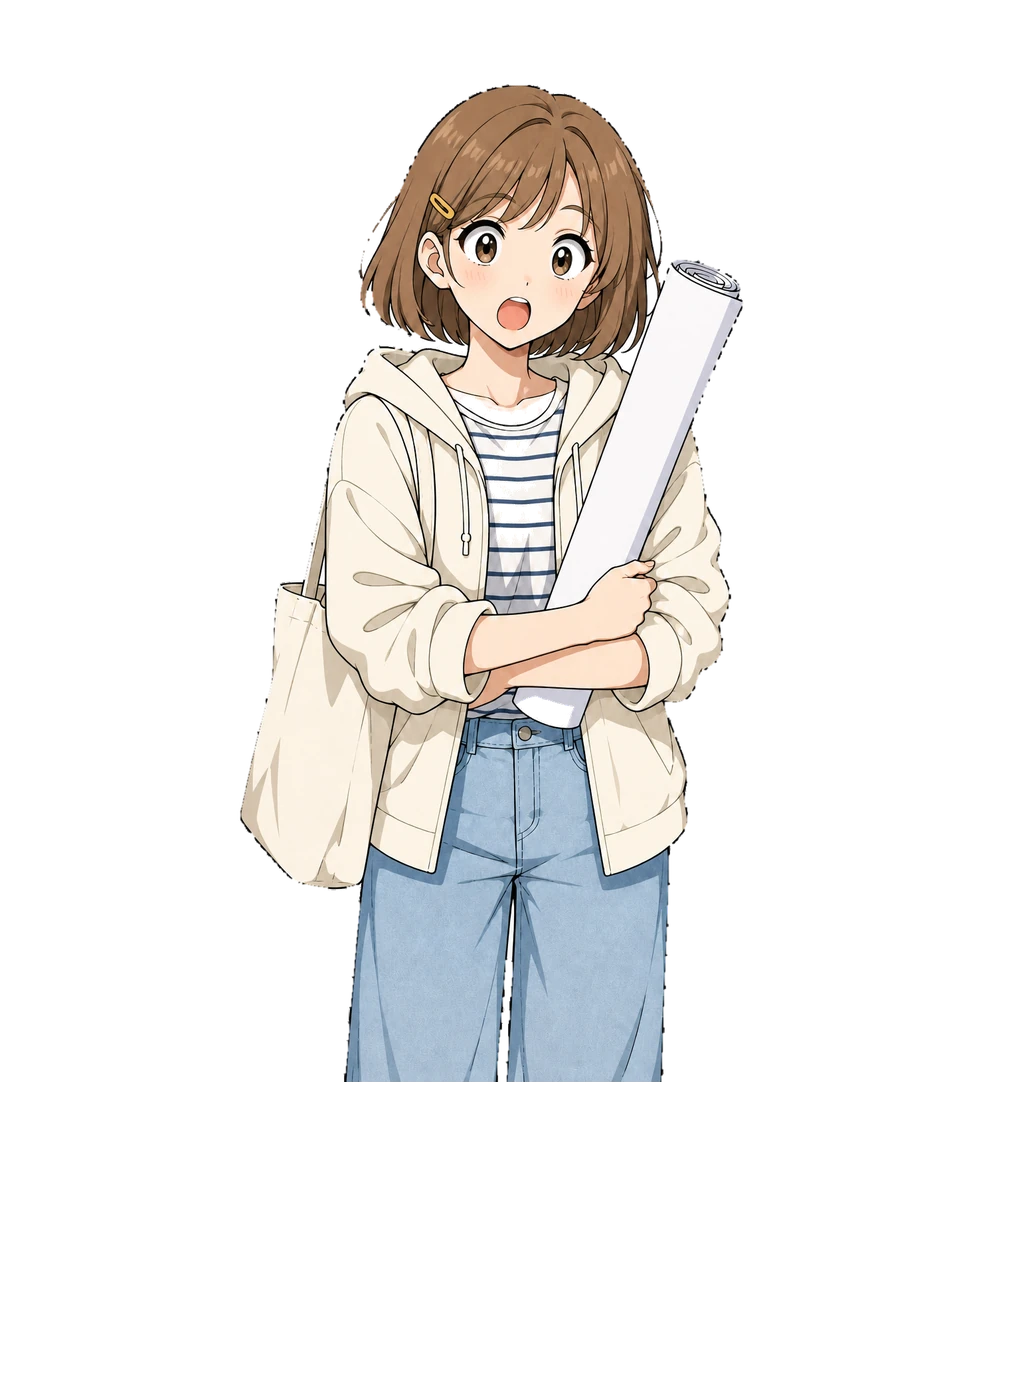
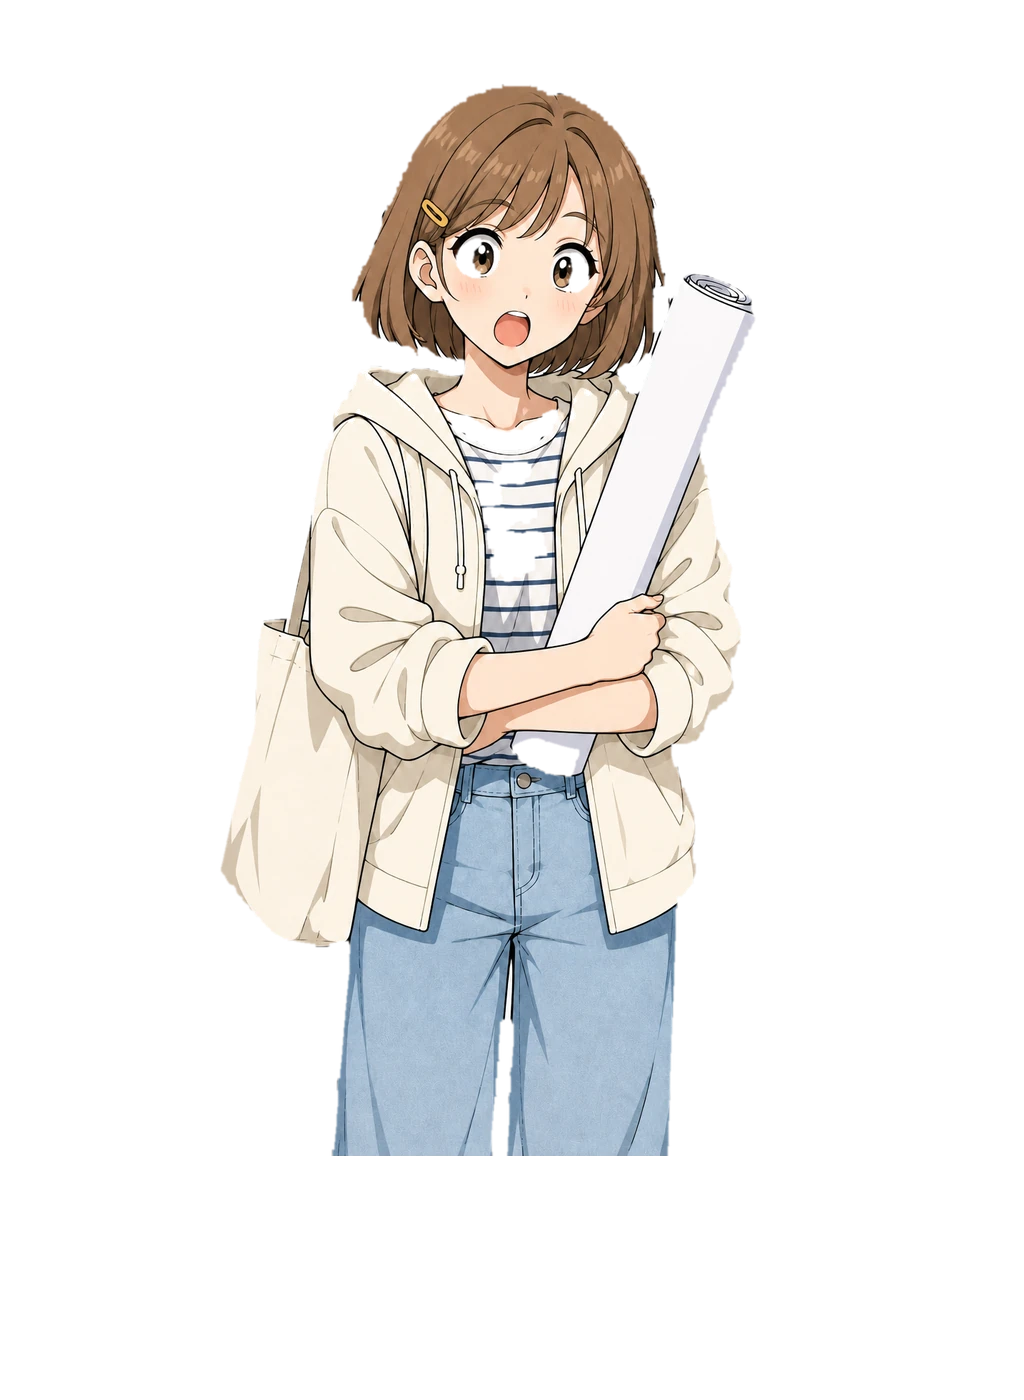
캐릭터 누끼 테두리·틈 정리, 자산 캐시 갱신

Changed region(s): [[0.2188, 0.0614, 0.75, 0.8293]]

diff --git a/js/engine.js b/js/engine.js
@@ -14,23 +14,23 @@
 
   var ASSETS = {
     bg: {
-      campus_day: 'assets/img/campus_day.webp?v=4',
-      library: 'assets/img/library.webp?v=4',
-      clubroom: 'assets/img/clubroom.webp?v=4',
-      campus_night: 'assets/img/campus_night.webp?v=4'
+      campus_day: 'assets/img/campus_day.webp?v=5',
+      library: 'assets/img/library.webp?v=5',
+      clubroom: 'assets/img/clubroom.webp?v=5',
+      campus_night: 'assets/img/campus_night.webp?v=5'
     },
     char: {
       seoyun: {
-        base: 'assets/img/seoyun_base.webp?v=4',
-        blush: 'assets/img/seoyun_blush.webp?v=4',
-        surprised: 'assets/img/seoyun_surprised.webp?v=4',
-        serious: 'assets/img/seoyun_serious.webp?v=4'
+        base: 'assets/img/seoyun_base.webp?v=5',
+        blush: 'assets/img/seoyun_blush.webp?v=5',
+        surprised: 'assets/img/seoyun_surprised.webp?v=5',
+        serious: 'assets/img/seoyun_serious.webp?v=5'
       },
       chaewon: {
-        base: 'assets/img/chaewon_base.webp?v=4',
-        blush: 'assets/img/chaewon_blush.webp?v=4',
-        surprised: 'assets/img/chaewon_surprised.webp?v=4',
-        serious: 'assets/img/chaewon_serious.webp?v=4'
+        base: 'assets/img/chaewon_base.webp?v=5',
+        blush: 'assets/img/chaewon_blush.webp?v=5',
+        surprised: 'assets/img/chaewon_surprised.webp?v=5',
+        serious: 'assets/img/chaewon_serious.webp?v=5'
       }
     }
   };

diff --git a/css/style.css b/css/style.css
@@ -484,7 +484,7 @@ body:not(.is-title) #dialogue { opacity: 1; transform: none; }
 .title-bg {
   position: absolute;
   inset: 0;
-  background: url('../assets/img/campus_day.webp?v=4') center 46% / cover no-repeat;
+  background: url('../assets/img/campus_day.webp?v=5') center 46% / cover no-repeat;
   filter: saturate(0.98) brightness(0.94);
   transform: scale(1.06);
   animation: drift 28s ease-in-out infinite alternate;
@@ -612,7 +612,7 @@ body:not(.is-title) #dialogue { opacity: 1; transform: none; }
 body:not(.loading) .loader { opacity: 0; transition: opacity 0.6s; }
 
 .credit {
-  margin: 20px 0 0;
+  margin: 26px 0 0;
   font-size: 9px;
   letter-spacing: 0.3em;
   color: rgba(255, 248, 234, 0.32);

diff --git a/index.html b/index.html
@@ -17,7 +17,7 @@
 <link rel="preconnect" href="https://fonts.googleapis.com">
 <link rel="preconnect" href="https://fonts.gstatic.com" crossorigin>
 <link rel="stylesheet" href="https://fonts.googleapis.com/css2?family=Gowun+Batang:wght@400;700&display=swap">
-<link rel="stylesheet" href="css/style.css?v=5">
+<link rel="stylesheet" href="css/style.css?v=6">
 </head>
 <body class="loading is-title">
 
@@ -113,6 +113,6 @@
 </div>
 
 <script src="js/audio.js?v=2"></script>
-<script src="js/engine.js?v=4"></script>
+<script src="js/engine.js?v=5"></script>
 </body>
 </html>

diff --git a/tools/build_assets.py b/tools/build_assets.py
@@ -82,6 +82,69 @@ def alpha_of(path):
     pale = (rgb.max(axis=2) >= 246) & ((rgb.max(axis=2) - rgb.min(axis=2)) <= 8)
     alpha[near_out & pale] = 0
 
+    # 실루엣 가장자리에 남은 흰색을 안쪽 색으로 바꾼다 (흰 테 제거)
+    core = (alpha > 200) & (rgb.max(axis=2) < 236)
+    if core.any():
+        ind = ndimage.distance_transform_edt(~core, return_distances=False, return_indices=True)
+        nearest = rgb[ind[0], ind[1]]
+        outside2 = alpha < 16
+        near2 = ndimage.binary_dilation(outside2, iterations=6)
+        pale2 = (rgb.max(axis=2) >= 232) & ((rgb.max(axis=2) - rgb.min(axis=2)) <= 20)
+        fix = near2 & pale2 & (alpha > 0)
+        rgb[fix] = nearest[fix]
+
+    # 머리카락 사이로 남은 얇은 흰 틈을 주변 색으로 메운다 (넓은 흰 소품은 그대로)
+    pale3 = (rgb.max(axis=2) >= 235) & ((rgb.max(axis=2) - rgb.min(axis=2)) <= 26) & (alpha > 30)
+    thick = ndimage.binary_opening(pale3, structure=np.ones((5, 5)))
+    core3 = (alpha > 200) & ~pale3
+    if core3.any():
+        ind3 = ndimage.distance_transform_edt(~core3, return_distances=False, return_indices=True)
+        near3 = rgb[ind3[0], ind3[1]]
+        fill3 = pale3 & ~thick
+        rgb[fill3] = near3[fill3]
+
+    # 흰 배경이 반투명하게 남은 테두리는 지운다
+    pale_hard = (rgb.max(axis=2) >= 232) & ((rgb.max(axis=2) - rgb.min(axis=2)) <= 22)
+    alpha[pale_hard & (alpha < 200)] = 0
+
+    # 실루엣 바로 바깥에 갇힌 흰 테 제거 (테두리 3px)
+    out_zone = ndimage.binary_dilation(alpha < 8, iterations=3)
+    pale5 = (rgb.max(axis=2) >= 240) & ((rgb.max(axis=2) - rgb.min(axis=2)) <= 16)
+    alpha[out_zone & pale5] = 0
+
+    # 테두리를 4px 깎아 흰 테·잔여 배경 조각을 없앤다
+    alpha[alpha < 150] = 0
+    al3 = Image.fromarray(alpha.astype(np.uint8), "L")
+    al3 = al3.filter(ImageFilter.MinFilter(9)).filter(ImageFilter.GaussianBlur(1.0))
+    alpha = np.asarray(al3).astype(np.float32)
+
+    # 머리카락 사이에 갇힌 작은 흰 배경 조각 제거 (얼굴 위쪽 영역만)
+    H = alpha.shape[0]
+    pale4 = (rgb.max(axis=2) >= 238) & ((rgb.max(axis=2) - rgb.min(axis=2)) <= 16) & (alpha > 40)
+    lab4, n4 = ndimage.label(pale4)
+    for i in range(1, n4 + 1):
+        blob = lab4 == i
+        ar = int(blob.sum())
+        if ar < 8 or ar > 2600:
+            continue
+        ys, xs = np.where(blob)
+        if ys.mean() < H * 0.33:
+            alpha[blob] = 0
+
+    # 다리 사이처럼 가늘고 긴 흰 틈 제거 (아래쪽 포함)
+    pale6 = (rgb.max(axis=2) >= 240) & ((rgb.max(axis=2) - rgb.min(axis=2)) <= 16) & (alpha > 40)
+    lab6, n6 = ndimage.label(pale6)
+    for i in range(1, n6 + 1):
+        blob = lab6 == i
+        ar = int(blob.sum())
+        if ar < 120:
+            continue
+        ys, xs = np.where(blob)
+        bw = xs.max() - xs.min() + 1
+        bh = ys.max() - ys.min() + 1
+        if bw <= 46 and bh >= 90:
+            alpha[blob] = 0
+
     # 흰 배경과 섞인 반투명 가장자리 색 되돌리기
     av = np.clip(alpha / 255.0, 0.0, 1.0)[..., None]
     un = (rgb - 255.0 * (1.0 - av)) / np.maximum(av, 0.08)
